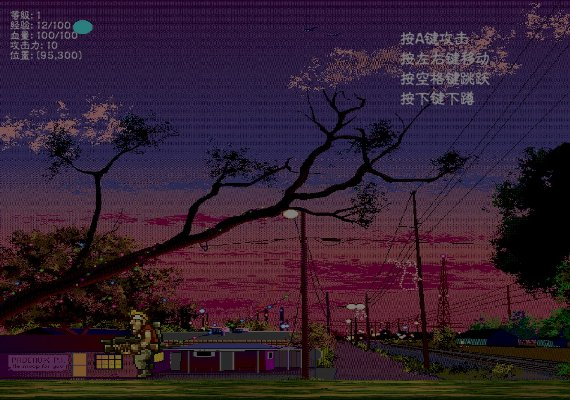
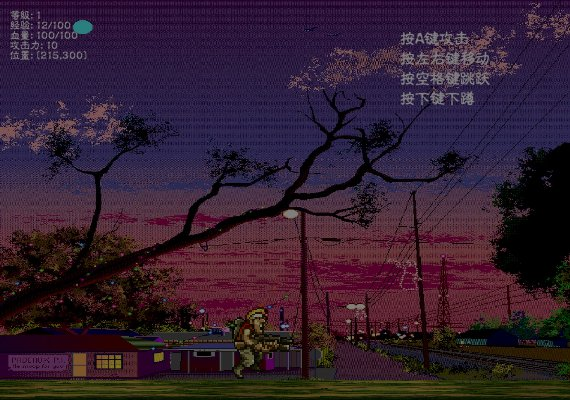
重置第一关内容

Changed region(s): [[0.3877, 0.75, 0.5368, 0.96], [0.1789, 0.78, 0.2982, 0.96], [0.0596, 0.12, 0.1491, 0.15]]

diff --git a/level.py b/level.py
@@ -54,6 +54,166 @@ class GameLevel(object):
         tools.waitPlayerInput(screen, "", pygame.K_s)
         # 绘制关卡音乐
         media.Music().level()
+        # 是否与npc互动
+        is_npc_interactive = False
+        # 是否与npc第二次互动
+        is_npc_interactive_2 = False
+        # 重置玩家位置
+        self.playerObj.reset_player_pos()
+        # 初始化游戏平台
+        platforms = [
+            media.Platform(0, 380, self.window_width, 20, self.platform_1_image())
+        ]
+        # 绘制敌人
+        enemies = [
+            Enemy.Enemy(450, 300, "left", 1, 1),
+        ]
+        pygame.display.flip()
+        # 游戏开始
+        game_over = False
+        while not game_over:
+            # 事件处理
+            for event in pygame.event.get():
+                if event.type == pygame.QUIT:
+                    game_over = True
+                    break
+                if event.type == pygame.KEYDOWN:
+                    if event.key == pygame.K_SPACE and self.playerObj.on_ground:
+                        self.playerObj.vel_y = self.playerObj.jump_power
+                    elif event.key == pygame.K_a:
+                        self.playerObj.attack()
+            # 绘制背景
+            media.GameBackground().level_1(screen)
+            # 游戏教程
+            tools.drawText(screen, "按A键攻击", 400, 30, 15, (255, 255, 255))
+            tools.drawText(screen, "按左右键移动", 400, 50, 15, (255, 255, 255))
+            tools.drawText(screen, "按空格键跳跃", 400, 70, 15, (255, 255, 255))
+            tools.drawText(screen, "按下键下蹲", 400, 90, 15, (255, 255, 255))
+            # 绘制平台
+            for platform in platforms:
+                platform.draw(screen)
+            # 玩家移动
+            self.playerObj.player_move(screen)
+            # 更新玩家碰撞
+            self.playerObj.update_collision(platforms)
+            # 绘制玩家面板
+            self.playerObj.player_info(screen)
+            # 绘制玩家
+            self.playerObj.draw(screen)
+            # 绘制敌人
+            for enemy in enemies:
+                if enemy.is_dead:
+                    enemies.remove(enemy)
+                    continue
+                else:
+                    enemy.attack(screen, self.playerObj)  # 非阻塞逐帧更新动画
+                    if enemy.speed != 0:
+                        enemy.move(screen, platforms)
+            # 绘制火球攻击
+            for target in self.playerObj.remote_attack_targets:
+                if target.is_alive:
+                    target.draw(screen)
+                    target.update(screen, platforms,enemies,self.playerObj)
+                else:
+                    self.playerObj.remote_attack_targets.remove(target)
+            # 玩家升级检测
+            self.playerObj.player_level_up(screen)
+            # 与npc第一次对话
+            if not is_npc_interactive:
+                is_npc_interactive = True
+                # 主视图加灰色半透明蒙层
+                overlay = pygame.Surface((self.window_width, self.window_height), pygame.SRCALPHA)
+                overlay.fill((0, 0, 0, 128))  # 半透明
+                screen.blit(overlay, (0, 0))
+                # 截取并保存屏幕
+                pygame.image.save(screen, "./static/temp.jpg")
+                text_list = [
+                    ["npc", "什么人?竟敢跑到这里来？"],
+                    ["npc", "赶紧滚蛋,不然让你小命不保"],
+                    ["player", "你是谁？"],
+                    ["npc", "我是天网组织的一名士兵"],
+                    ["npc", "赶紧滚蛋吧，再废话我要出手了！"],
+                    ["player", "呵呵，我怕你不成？"],
+                    ["npc", "好小子，还没人敢这么跟我说话"],
+                    ["npc", "我要把你的脑袋砍下来当夜壶"],
+                    ["player", "少废话，出手吧！"]
+                ]
+                npc_big_image = pygame.transform.scale(pygame.image.load("./static/enemy/1/walking_1.png").convert_alpha(), (300,350))
+                player_big_image = pygame.transform.scale(self.playerObj.player_image, (300, 300))
+                for text in text_list:
+                    # 清空事件队列
+                    pygame.event.clear()
+                    if text[0] == "player":
+                        screen.blit(player_big_image, (0, 100))
+                        tools.drawText(screen, text[1], 250, 200, 20, (255, 255, 255))
+                    else:
+                        screen.blit(pygame.transform.flip(npc_big_image, True, False), (270, 100))
+                        tools.drawText(screen, text[1], 100, 200, 20, (255, 255, 255))
+                    # 等待用户按下任意键
+                    tools.waitPlayerInput(screen, "按'F'键继续...", pygame.K_f)
+                    # 渲染快照背景图，用于清除本次交互内容
+                    sbgi = pygame.image.load("./static/temp.jpg")
+                    sbgi = pygame.transform.scale(sbgi, (self.window_width, self.window_height))
+                    screen.blit(sbgi, (0, 0))
+            # 与npc第二次对话
+            if is_npc_interactive and not is_npc_interactive_2 and len(enemies) == 0:
+                is_npc_interactive_2 = True
+                # 主视图加灰色半透明蒙层
+                overlay = pygame.Surface((self.window_width, self.window_height), pygame.SRCALPHA)
+                overlay.fill((0, 0, 0, 128))  # 半透明
+                screen.blit(overlay, (0, 0))
+                # 截取并保存屏幕
+                pygame.image.save(screen, "./static/temp.jpg")
+                text_list = [
+                    ["npc", "好小子，有两下子"],
+                    ["player", "你就这么点能耐吗？"],
+                    ["npc", "你别得意，我这就回去叫人"],
+                    ["npc", "竟敢得罪天网组织！"],
+                    ["npc", "你小子的好日子就要到头了"],
+                    ["player", "混蛋，哪里跑？"]
+                ]
+                npc_big_image = pygame.transform.scale(pygame.image.load("./static/enemy/1/walking_1.png").convert_alpha(), (300,350))
+                player_big_image = pygame.transform.scale(self.playerObj.player_image, (300, 300))
+                for text in text_list:
+                    # 清空事件队列
+                    pygame.event.clear()
+                    if text[0] == "player":
+                        screen.blit(player_big_image, (0, 100))
+                        tools.drawText(screen, text[1], 250, 200, 20, (255, 255, 255))
+                    else:
+                        screen.blit(pygame.transform.flip(npc_big_image, True, False), (270, 100))
+                        tools.drawText(screen, text[1], 100, 200, 20, (255, 255, 255))
+                    # 等待用户按下任意键
+                    tools.waitPlayerInput(screen, "按'F'键继续...", pygame.K_f)
+                    # 渲染快照背景图，用于清除本次交互内容
+                    sbgi = pygame.image.load("./static/temp.jpg")
+                    sbgi = pygame.transform.scale(sbgi, (self.window_width, self.window_height))
+                    screen.blit(sbgi, (0, 0))
+            # 通关
+            if len(enemies) == 0 and is_npc_interactive_2:
+                game_over = self.pass_level(screen)
+            # 更新显示
+            pygame.display.flip()
+            # 控制帧率
+            clock.tick(60)
+        return
+
+    def level_2(self, screen):
+        if self.playerObj.current_level != 2:
+            return
+        clock = pygame.time.Clock()
+        # 绘制剧情音乐
+        media.Music().plot()
+        # 绘制剧情背景
+        media.GameBackground().level_2_plot(screen)
+        # 游戏文字
+        text = GameText().level_2()
+        # 绘制剧情摘要
+        tools.drawTextCenter(screen, text, 20, (255, 255, 255))
+        # 等待用户输入
+        tools.waitPlayerInput(screen, "", pygame.K_s)
+        # 绘制关卡音乐
+        media.Music().level()
         # 绘制NPC
         npc_image = player.Role().npc_1()
         # 是否与npc互动
@@ -65,11 +225,16 @@ class GameLevel(object):
         npc_y = 310
         # 初始化游戏平台
         platforms = [
-            media.Platform(0, 380, self.window_width, 20, self.platform_1_image())
+            media.Platform(0, 380, self.window_width, 20, self.platform_1_image()),
+            media.Platform(180, 330, 80, 50, self.platform_2_image()),
+            media.Platform(370, 220, 200, 30, self.platform_2_image()),
+            media.Platform(0, 130, 200, 30, self.platform_2_image()),
         ]
         # 绘制敌人
         enemies = [
             Enemy.Enemy(450, 300, "left", 1, 1),
+            Enemy.Enemy(450, 140, "left", 1, 1),
+            Enemy.Enemy(30, 50, "left", 1, 1),
         ]
         pygame.display.flip()
         # 游戏开始
@@ -168,10 +333,11 @@ class GameLevel(object):
                                 # 清空事件队列
                                 pygame.event.clear()
                                 if text[0] == "player":
-                                    screen.blit(player_big_image, (-100, 50))
+                                    screen.blit(player_big_image, (0, 100))
+                                    tools.drawText(screen, text[1], 250, 200, 20, (255, 255, 255))
                                 else:
-                                    screen.blit(pygame.transform.flip(npc_big_image, True, False), (330, 100))
-                                tools.drawText(screen, text[1], 150, 200, 15, (255, 255, 255))
+                                    screen.blit(pygame.transform.flip(npc_big_image, True, False), (270, 100))
+                                    tools.drawText(screen, text[1], 100, 200, 20, (255, 255, 255))
                                 # 等待用户按下任意键
                                 tools.waitPlayerInput(screen, "按'F'键继续...", pygame.K_f)
                                 # 渲染快照背景图，用于清除本次交互内容
@@ -186,9 +352,6 @@ class GameLevel(object):
             clock.tick(60)
         return
 
-    def level_2(self, screen):
-        pass    
-
 
 # 文案类
 class GameText(object):
@@ -197,6 +360,6 @@ class GameText(object):
         return text
 
     def level_2(self):
-        text = "经过几个市区后你来到了13区,\n街上似乎一个人都没有安静的\n有些可怕,等等那是什么？\n不远处的一个黑影引起了你的注意。\n你觉得过去看看...\n\n\n按下S键继续..."
+        text = "经过一番激战后你战胜了眼前的天网士兵\n,可却一不留神让他逃跑了,你追赶了几\n个街区后却跟丢了,这时你发现街上似乎\n一个人都没有,四周安静的有些可怕,\n等等那是什么？不远处的一个黑影引起了你的注意。\n你决定过去看看...\n\n\n按下S键继续..."
         return text
 
